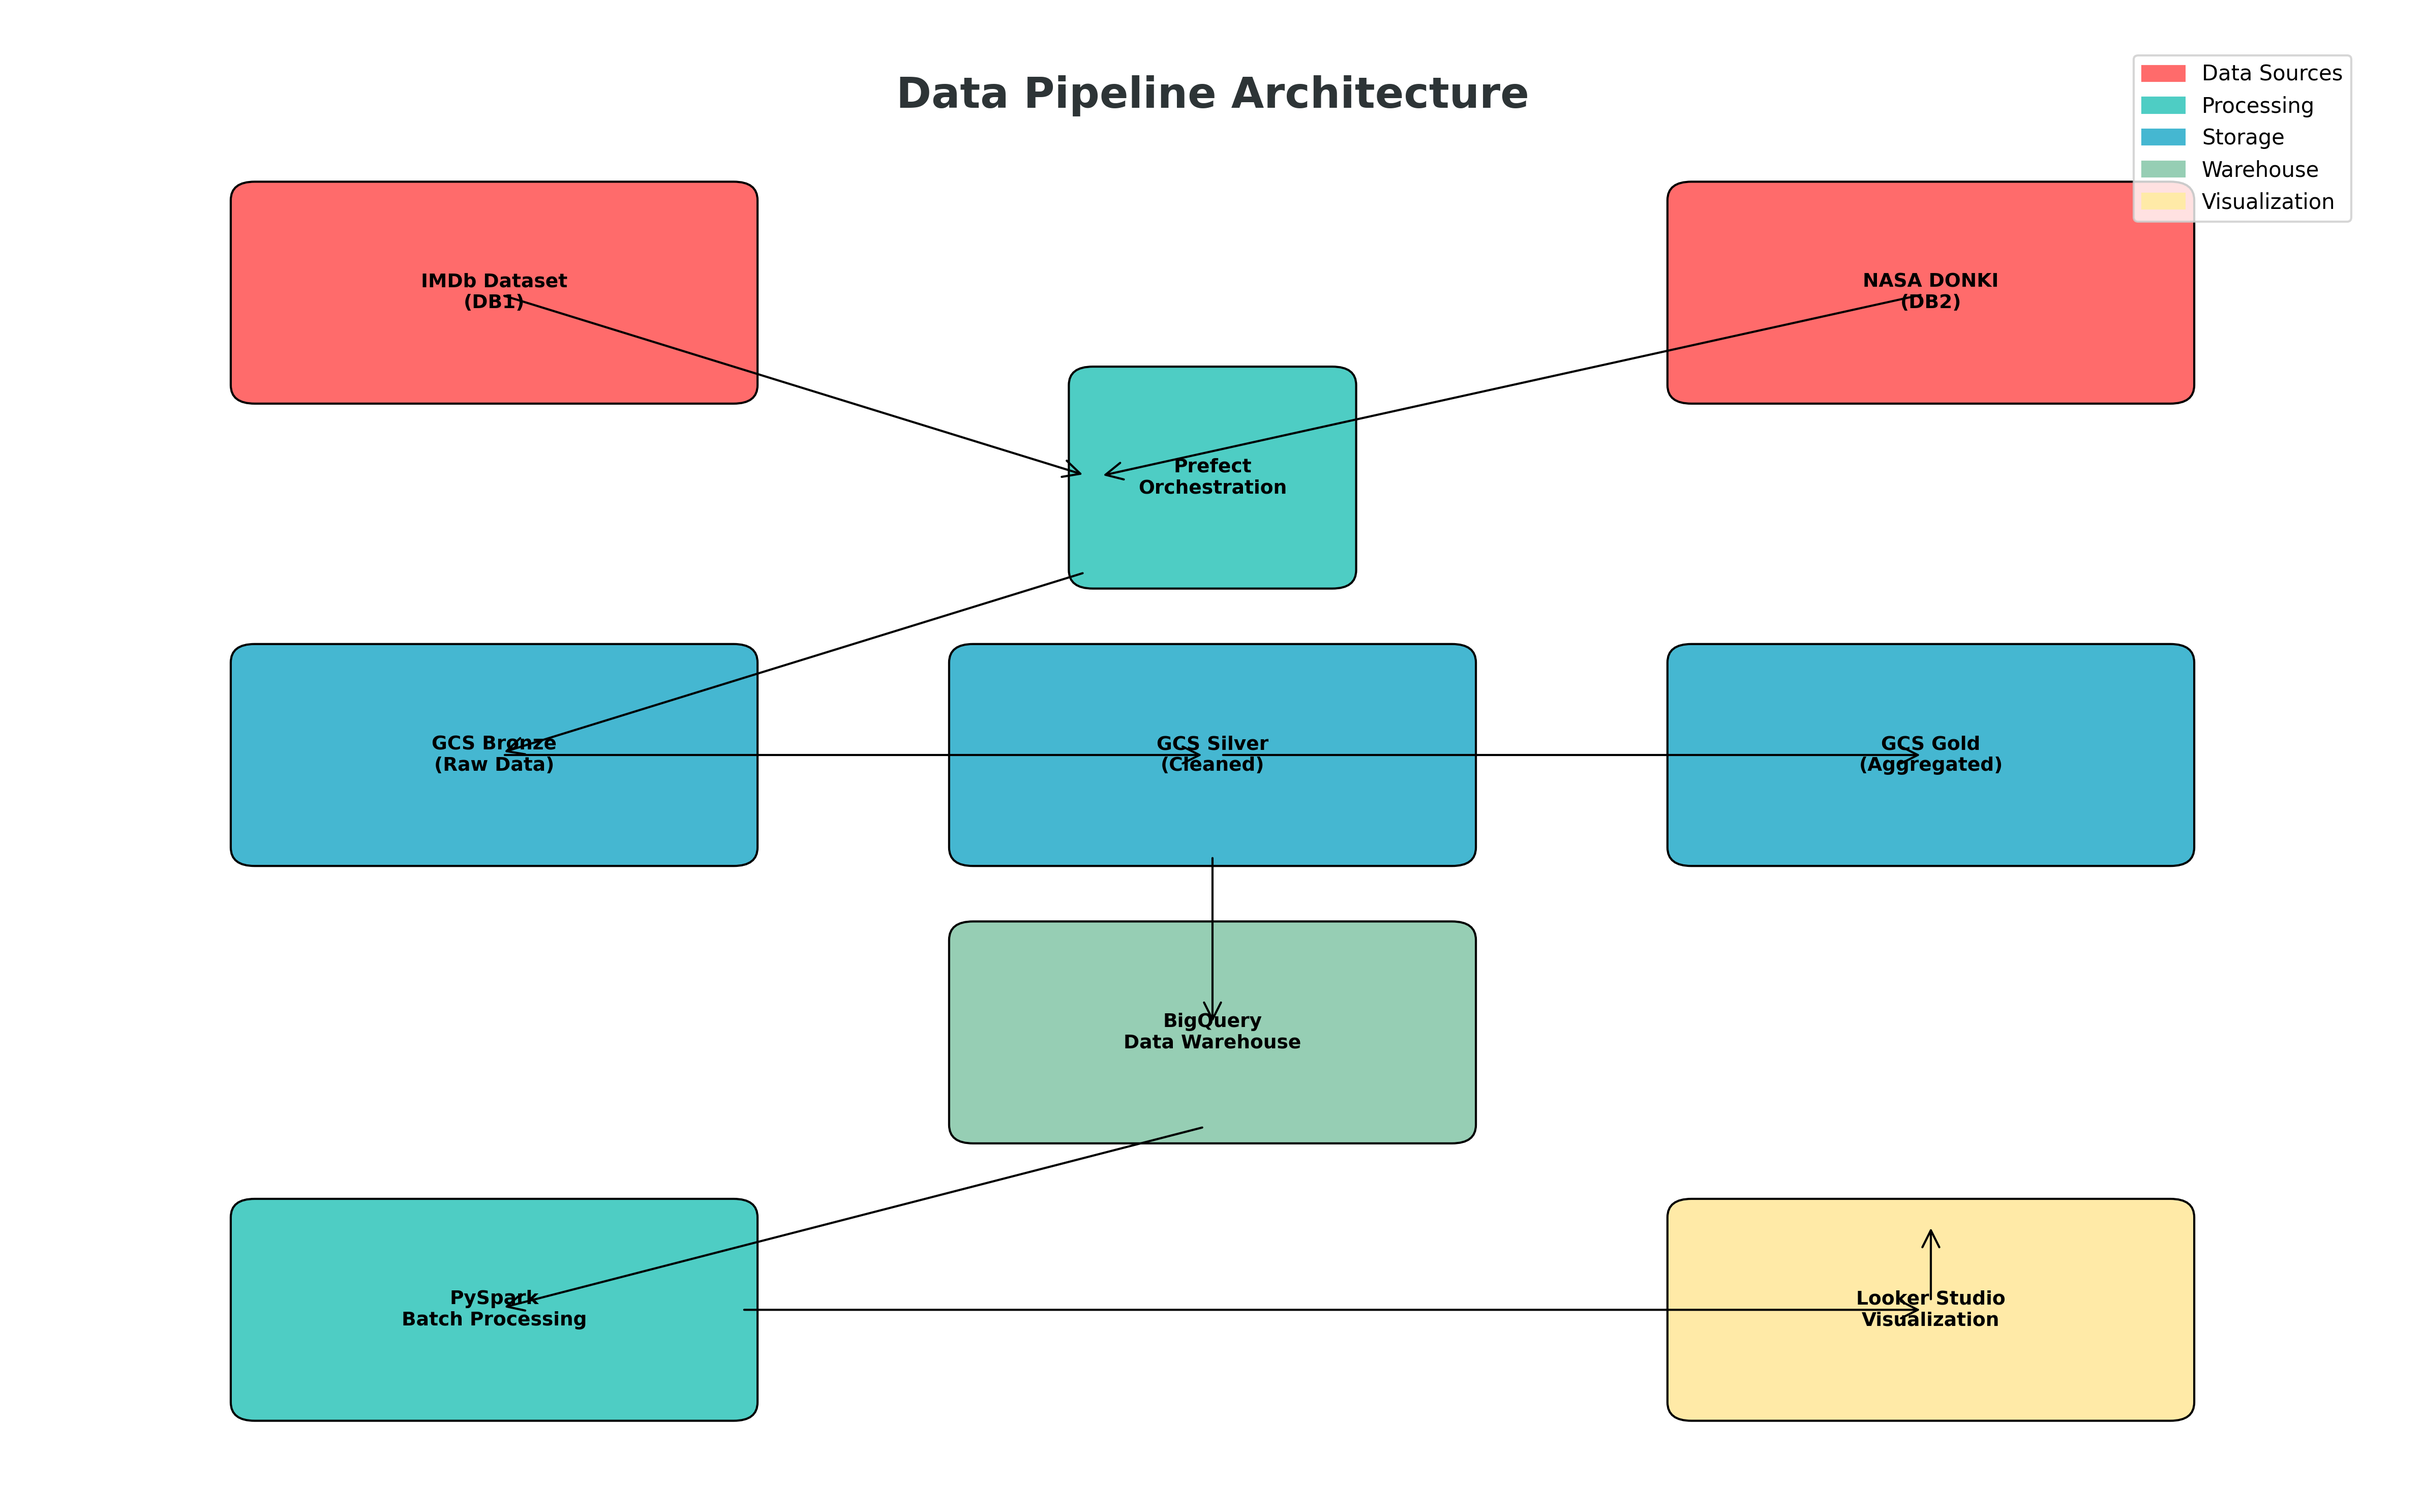
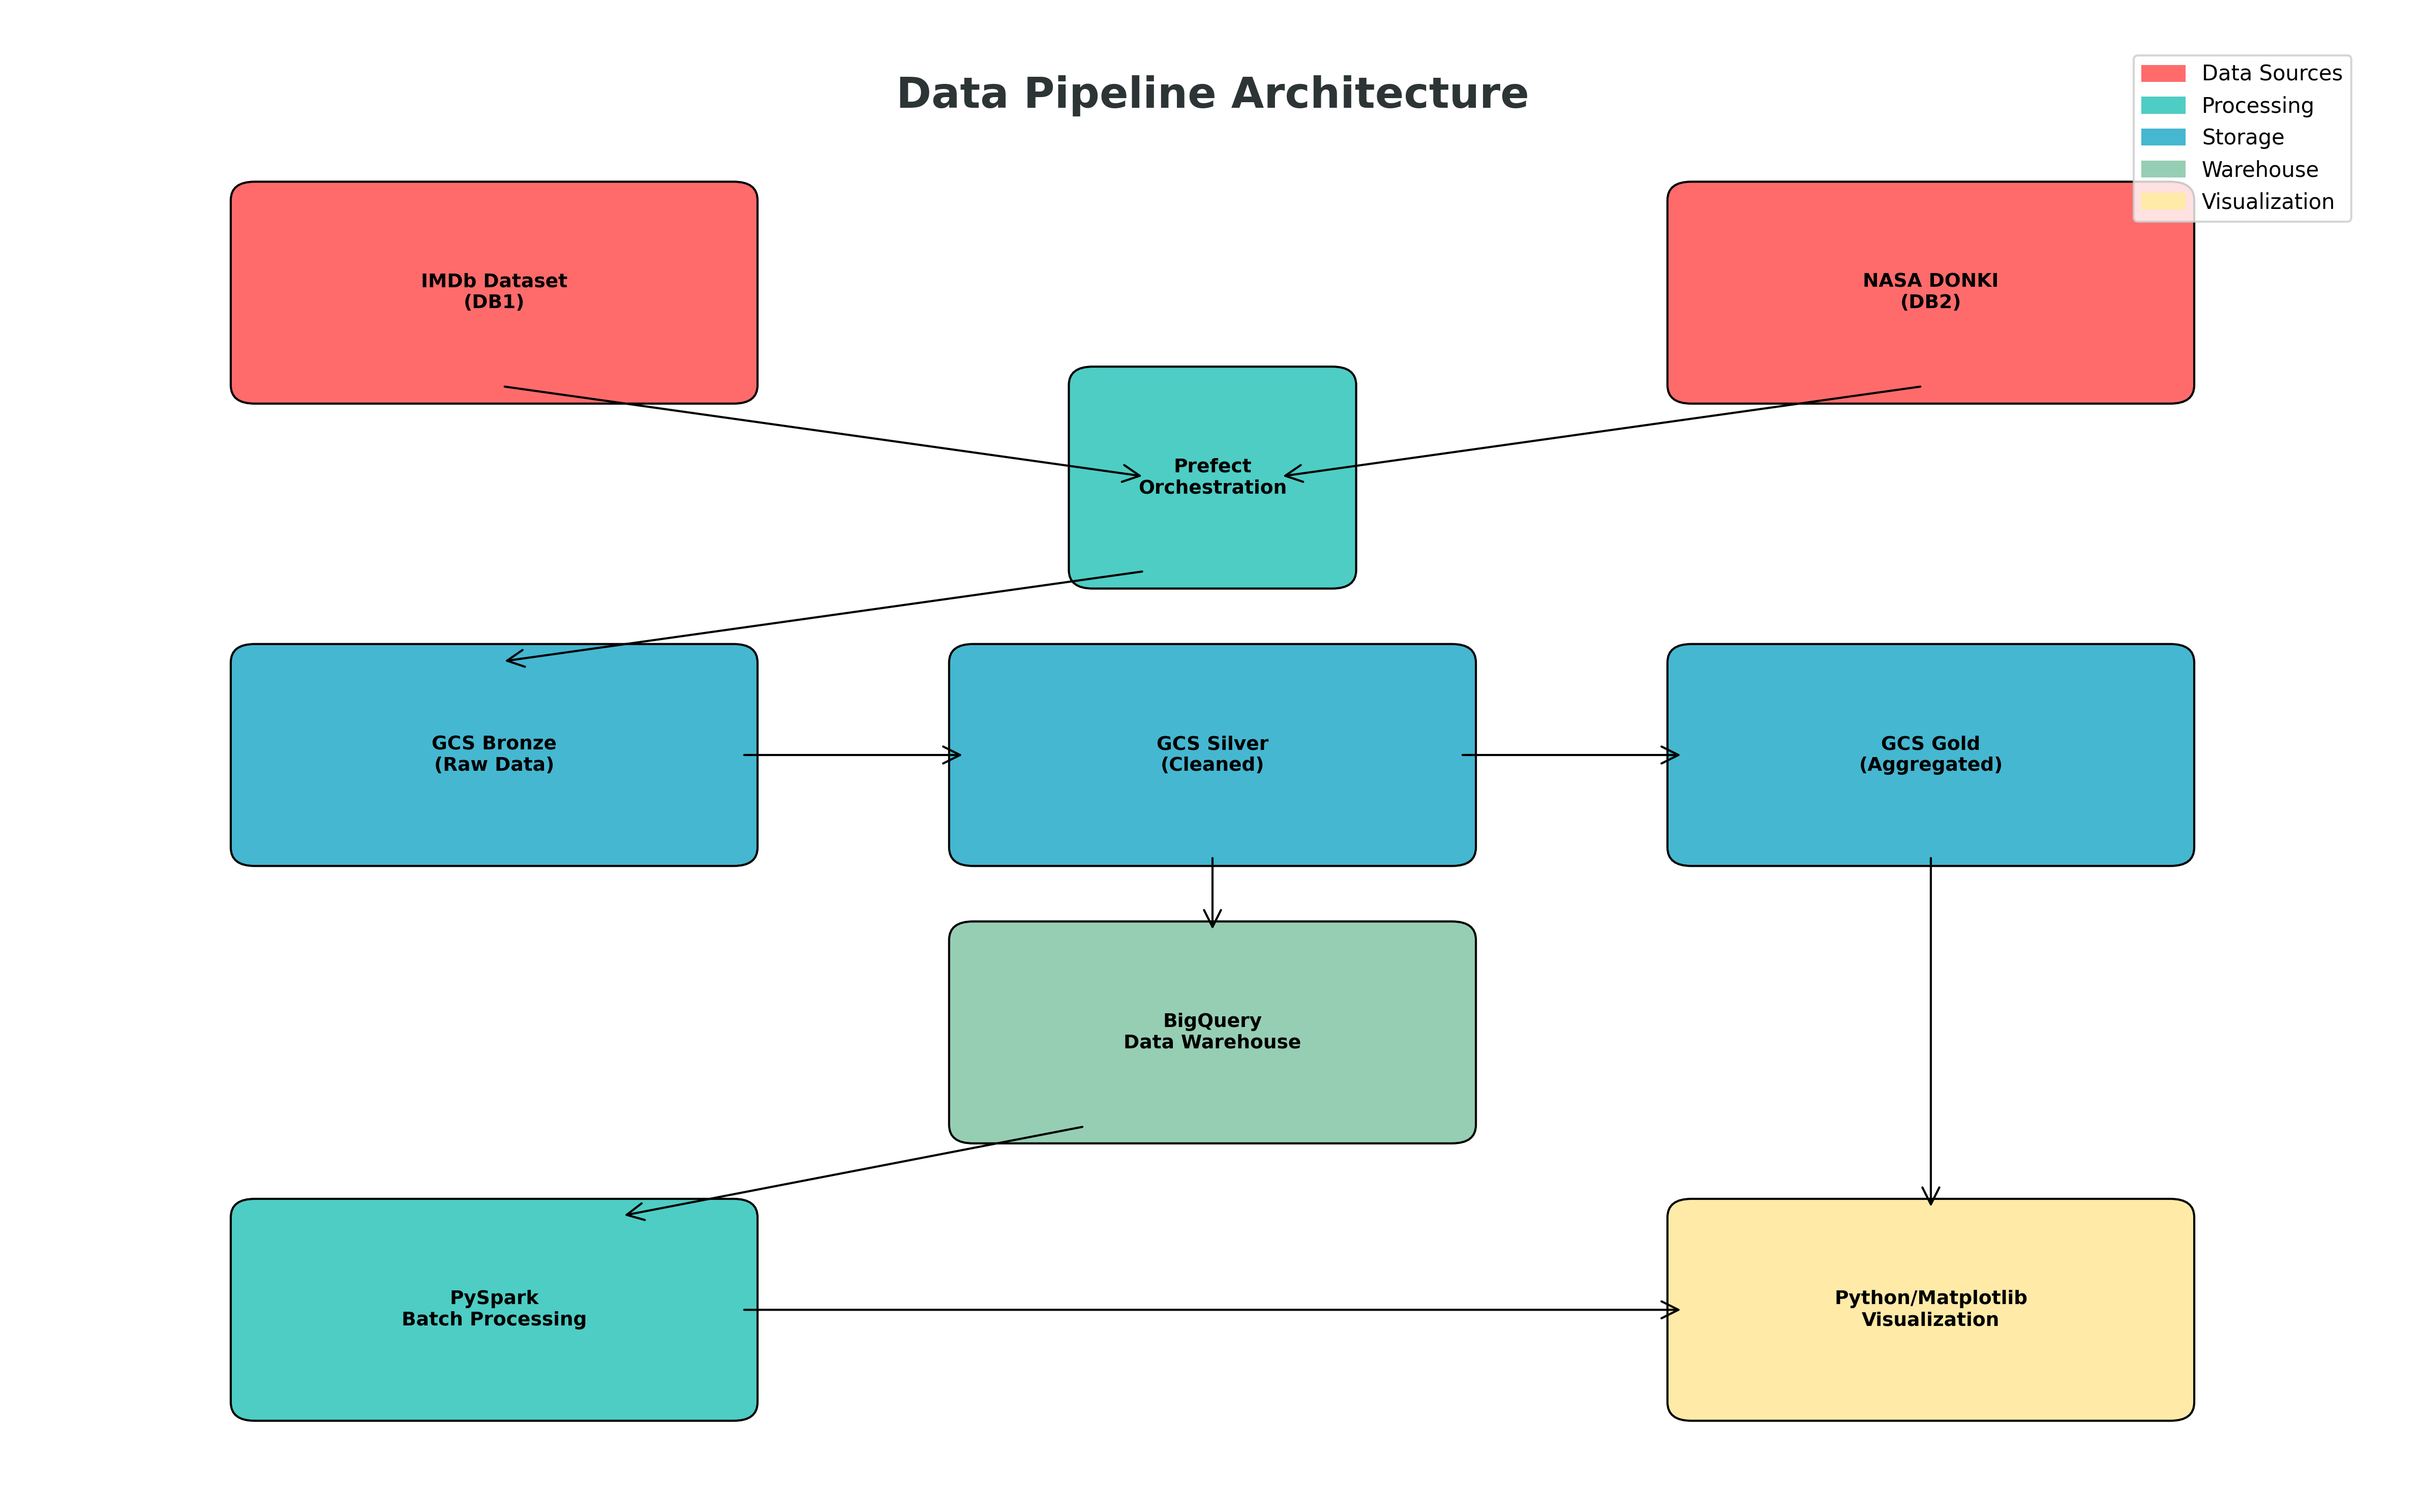
fix: improve diagram quality and accuracy
- Fix genre performance chart layout (remove conflicting plt.figure calls)
- Limit genre chart to top 15 for readability
- Improve pipeline diagram arrow positioning
- Update visualization label from Looker Studio to Python/Matplotlib
- Remove duplicate schema_updated.png file

Changed region(s): [[0.7497, 0.8364, 0.8434, 0.8673], [0.4373, 0.3098, 0.4686, 0.3407], [0.3748, 0.2788, 0.4061, 0.3098]]

diff --git a/viz/create_visualizations.py b/viz/create_visualizations.py
@@ -32,16 +32,30 @@ class IMDbVisualizer:
         dataframes = {}
         
         try:
-            for file in os.listdir(self.gold_dir):
-                if file.endswith('.parquet'):
-                    table_name = file.split('_')[0]
-                    file_path = os.path.join(self.gold_dir, file)
+            for item in os.listdir(self.gold_dir):
+                item_path = os.path.join(self.gold_dir, item)
+                
+                # Check if it's a directory (PySpark output structure)
+                if os.path.isdir(item_path):
+                    # Extract table name from directory name
+                    table_name = item.split('_')[0] + '_' + item.split('_')[1]
                     
-                    # Find the most recent version
-                    if os.path.isdir(file_path):
-                        df = pd.read_parquet(file_path)
+                    # Look for Parquet files inside the directory
+                    parquet_files = [f for f in os.listdir(item_path) 
+                                   if f.endswith('.parquet') and not f.startswith('.')]
+                    
+                    if parquet_files:
+                        # Read the parquet directory
+                        df = pd.read_parquet(item_path)
                         dataframes[table_name] = df
-                        logger.info(f"Loaded {table_name}: {len(df)} records")
+                        logger.info(f"Loaded {table_name}: {len(df)} records from {item_path}")
+                
+                # Also check for direct Parquet files (fallback)
+                elif item.endswith('.parquet') and not item.startswith('.'):
+                    table_name = item.split('_')[0]
+                    df = pd.read_parquet(item_path)
+                    dataframes[table_name] = df
+                    logger.info(f"Loaded {table_name}: {len(df)} records from {item_path}")
             
             return dataframes
             
@@ -75,8 +89,6 @@ class IMDbVisualizer:
     
     def create_genre_performance_chart(self, df: pd.DataFrame):
         """Create genre performance comparison chart."""
-        plt.figure(figsize=(14, 8))
-        
         # Group by genre and calculate metrics
         genre_stats = df.groupby('genre').agg({
             'title_count': 'sum',
@@ -84,22 +96,27 @@ class IMDbVisualizer:
             'total_votes': 'sum'
         }).reset_index()
         
-        # Create subplot
-        fig, (ax1, ax2) = plt.subplots(1, 2, figsize=(16, 8))
+        # Limit to top 15 genres for readability
+        top_genres = genre_stats.sort_values('title_count', ascending=False).head(15)
         
-        # Chart 1: Title count by genre
-        genre_stats_sorted = genre_stats.sort_values('title_count', ascending=True)
-        ax1.barh(genre_stats_sorted['genre'], genre_stats_sorted['title_count'])
+        # Create subplot with larger height for better label spacing
+        fig, (ax1, ax2) = plt.subplots(1, 2, figsize=(18, 12))
+        
+        # Chart 1: Title count by genre (top 15)
+        genre_counts = top_genres.sort_values('title_count', ascending=True)
+        ax1.barh(genre_counts['genre'], genre_counts['title_count'])
         ax1.set_title('Number of Titles by Genre', fontsize=14, fontweight='bold')
         ax1.set_xlabel('Number of Titles')
         
-        # Chart 2: Average rating by genre
-        genre_stats_rating = genre_stats.sort_values('avg_rating', ascending=True)
-        ax2.barh(genre_stats_rating['genre'], genre_stats_rating['avg_rating'])
+        # Chart 2: Average rating by genre (same top 15)
+        genre_ratings = top_genres.sort_values('avg_rating', ascending=True)
+        ax2.barh(genre_ratings['genre'], genre_ratings['avg_rating'])
         ax2.set_title('Average Rating by Genre', fontsize=14, fontweight='bold')
         ax2.set_xlabel('Average Rating')
         
+        # Adjust layout with more space for labels
         plt.tight_layout()
+        plt.subplots_adjust(left=0.15)
         
         # Save chart
         output_path = os.path.join(self.output_dir, "genre_performance.png")

diff --git a/diagrams/generate_diagrams.py b/diagrams/generate_diagrams.py
@@ -52,18 +52,18 @@ class AssignmentDiagramGenerator:
         
         # Processing
         self._draw_box(ax, 1, 0.5, 2, 1, 'PySpark\nBatch Processing', self.colors['process'])
-        self._draw_box(ax, 7, 0.5, 2, 1, 'Looker Studio\nVisualization', self.colors['viz'])
+        self._draw_box(ax, 7, 0.5, 2, 1, 'Python/Matplotlib\nVisualization', self.colors['viz'])
         
-        # Arrows
-        self._draw_arrow(ax, 2, 6.5, 4.5, 5.5)  # IMDb to Prefect
-        self._draw_arrow(ax, 8, 6.5, 4.5, 5.5)  # NASA to Prefect
-        self._draw_arrow(ax, 4.5, 5, 2, 4)      # Prefect to Bronze
-        self._draw_arrow(ax, 2, 4, 5, 4)        # Bronze to Silver
-        self._draw_arrow(ax, 5, 4, 8, 4)        # Silver to Gold
-        self._draw_arrow(ax, 5, 3.5, 5, 2.5)    # Silver to BigQuery
-        self._draw_arrow(ax, 5, 2, 2, 1)        # BigQuery to PySpark
-        self._draw_arrow(ax, 3, 1, 8, 1)        # PySpark to Gold
-        self._draw_arrow(ax, 8, 1, 8, 1.5)      # Gold to Looker Studio
+        # Arrows - connecting box centers properly
+        self._draw_arrow(ax, 2, 6, 4.75, 5.5)   # IMDb to Prefect (from bottom of IMDb to left of Prefect)
+        self._draw_arrow(ax, 8, 6, 5.25, 5.5)   # NASA to Prefect (from bottom of NASA to right of Prefect)
+        self._draw_arrow(ax, 4.75, 5, 2, 4.5)   # Prefect to Bronze (from bottom of Prefect to top of Bronze)
+        self._draw_arrow(ax, 3, 4, 4, 4)        # Bronze to Silver (right to left, same level)
+        self._draw_arrow(ax, 6, 4, 7, 4)        # Silver to Gold (right to left, same level)
+        self._draw_arrow(ax, 5, 3.5, 5, 3)      # Silver to BigQuery (from bottom of Silver to top of BigQuery)
+        self._draw_arrow(ax, 4.5, 2, 2.5, 1.5)  # BigQuery to PySpark (from left bottom to right top)
+        self._draw_arrow(ax, 3, 1, 7, 1)        # PySpark to Visualization (horizontal connection)
+        self._draw_arrow(ax, 8, 3.5, 8, 1.5)    # Gold to Visualization (vertical down)
         
         # Legend
         legend_elements = [
